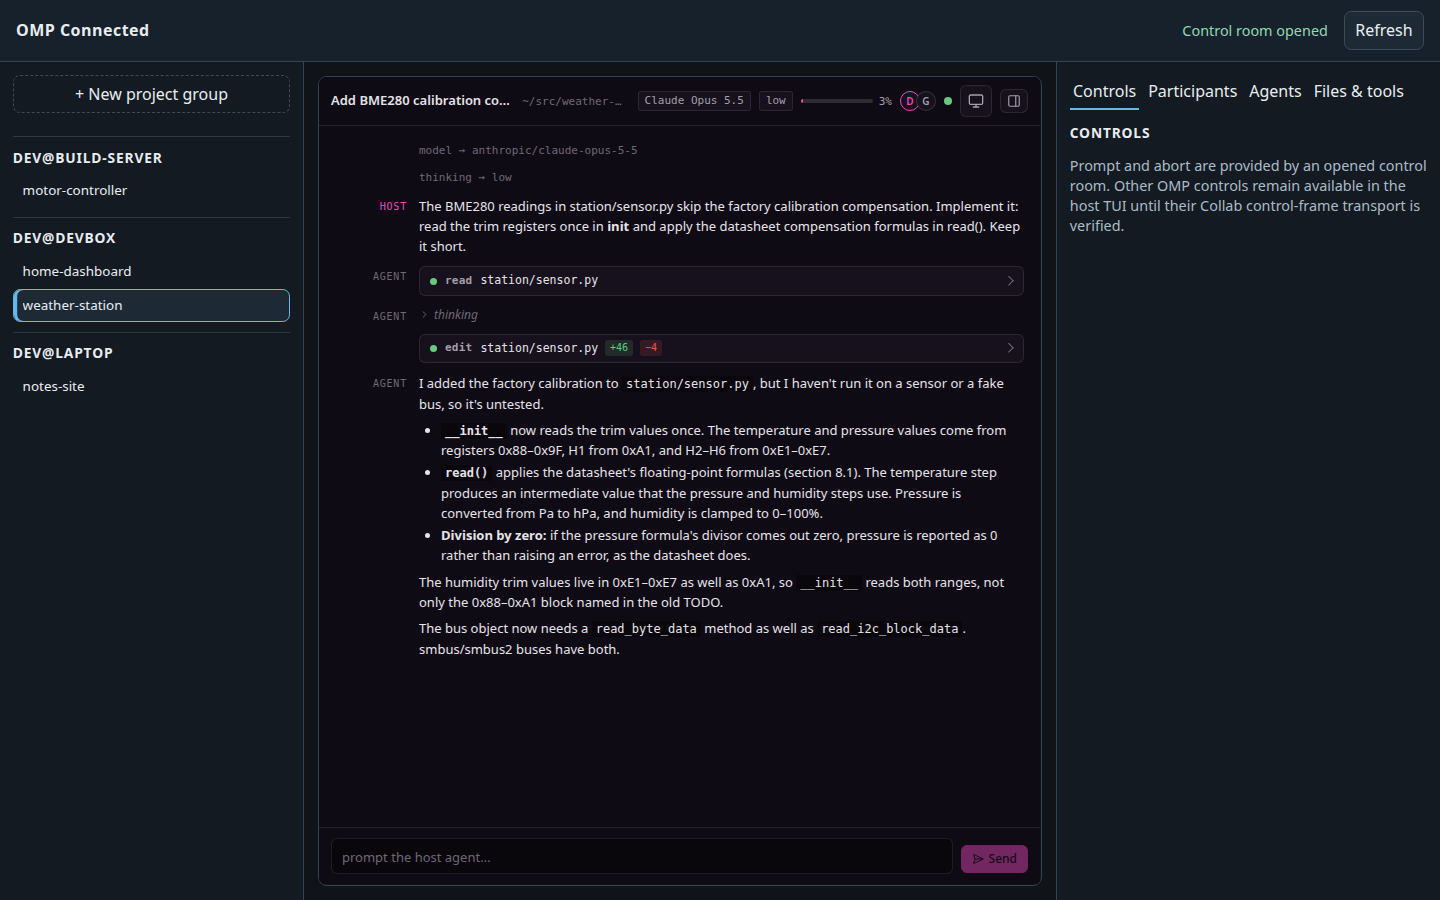
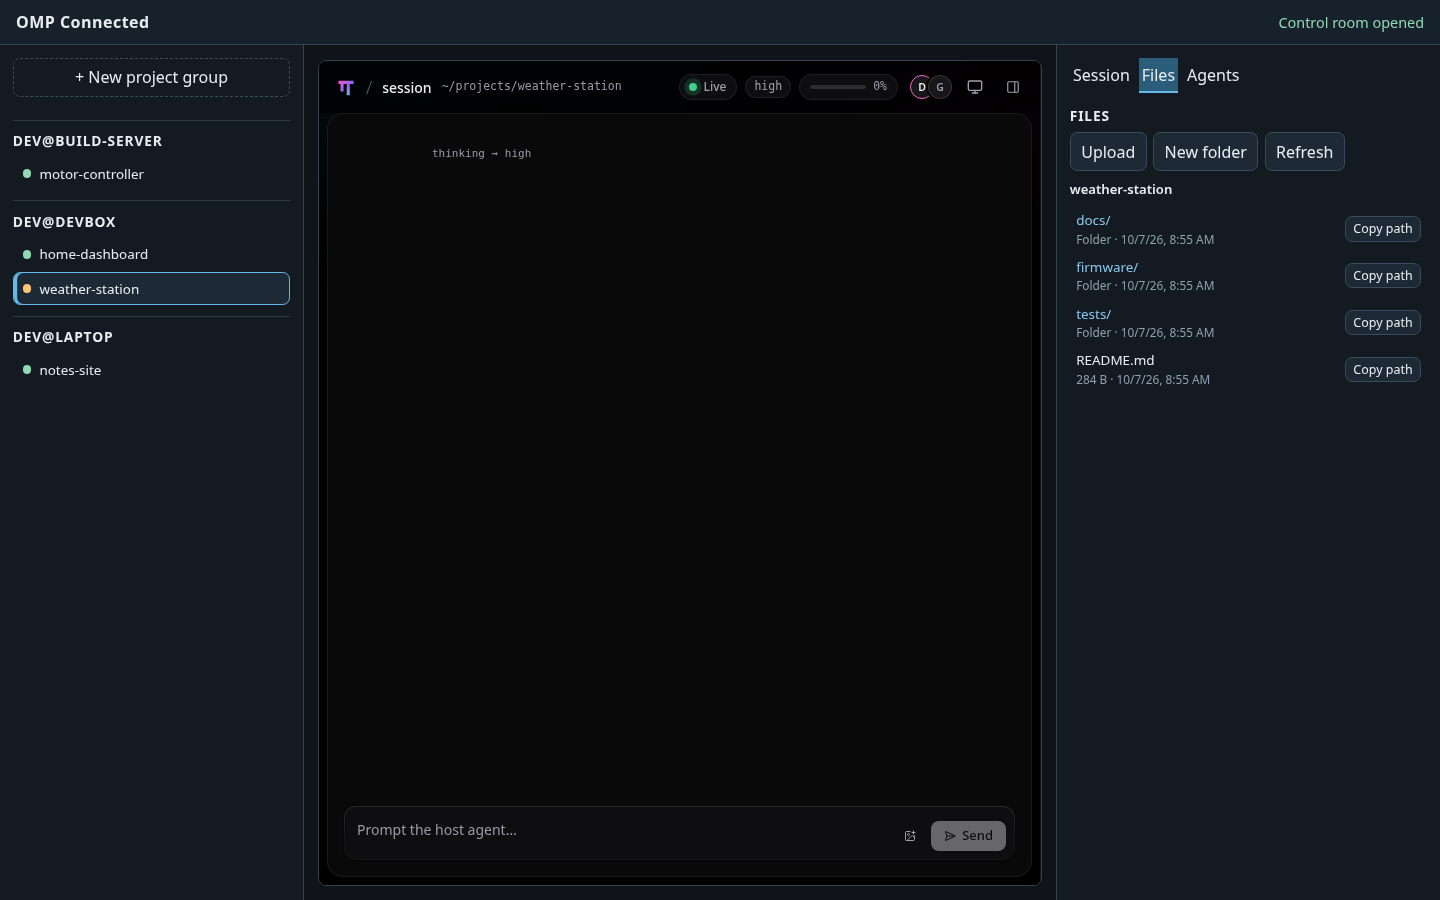
docs: refresh dashboard screenshots

diff --git a/scripts/capture-screenshots.ts b/scripts/capture-screenshots.ts
@@ -1,0 +1,95 @@
+import { mkdir } from "node:fs/promises";
+import { chromium, devices } from "../hub/node_modules/playwright/index.mjs";
+import type { Page } from "../hub/node_modules/playwright/index.mjs";
+
+// Run against a demo hub and demo hosts:
+// bun run scripts/capture-screenshots.ts [output-dir] [desktop-session] [mobile-session]
+
+const base = process.env.OMP_SCREENSHOT_BASE_URL ?? "http://127.0.0.1:48160/";
+const out = process.argv[2] ?? "docs/screenshots";
+const desktopSelect = process.argv[3] ?? "weather-station";
+const mobileSelect = process.argv[4] ?? "motor-controller";
+const busyLabel = process.env.OMP_SCREENSHOT_BUSY_SESSION ?? desktopSelect;
+await mkdir(out, { recursive: true });
+
+const browser = await chromium.launch();
+
+async function prepare(page: Page) {
+  await page.route("**/api/agents", async (route) => {
+    const response = await route.fetch();
+    const payload = await response.json();
+    // Show the busy indicator without sending a prompt to the demo agent.
+    const agent = payload.agents.find(
+      (item: { label: string }) => item.label === busyLabel,
+    );
+    if (!agent) throw new Error(`No registered agent labelled ${busyLabel}`);
+    agent.busy = true;
+    await route.fulfill({ response, json: payload });
+  });
+}
+
+async function load(page: Page) {
+  await prepare(page);
+  await page.goto(base);
+  await page.waitForSelector("[data-collab-frame]", {
+    state: "attached",
+    timeout: 20_000,
+  });
+  await page.waitForTimeout(3000);
+}
+
+async function select(page: Page, name: string, inRail = false) {
+  const scope = inRail ? page.locator("[data-session-rail]") : page;
+  const card = scope.getByText(name, { exact: true }).first();
+  await card.waitFor({ state: "visible", timeout: 20_000 });
+  await card.click();
+  await page.waitForTimeout(5000);
+}
+
+async function waitForFiles(page: Page) {
+  const list = page
+    .locator("[data-files-pane]")
+    .getByRole("list", { name: "Files" });
+  await list.locator("[data-name]").first().waitFor({
+    state: "visible",
+    timeout: 20_000,
+  });
+}
+
+try {
+  {
+    const ctx = await browser.newContext({
+      viewport: { width: 1440, height: 900 },
+      deviceScaleFactor: 1,
+      colorScheme: "dark",
+    });
+    const page = await ctx.newPage();
+    await load(page);
+    await select(page, desktopSelect);
+    await page.getByRole("button", { name: "Files", exact: true }).click();
+    await waitForFiles(page);
+    await page.screenshot({ path: `${out}/desktop.png` });
+    await ctx.close();
+  }
+
+  {
+    const ctx = await browser.newContext({
+      ...devices["iPhone 13"],
+      deviceScaleFactor: 2,
+      colorScheme: "dark",
+    });
+    const page = await ctx.newPage();
+    await load(page);
+    await page.getByRole("button", { name: "Sessions", exact: true }).click();
+    await page.waitForTimeout(800);
+    await page.screenshot({ path: `${out}/mobile-sessions.png` });
+    await select(page, mobileSelect, true);
+    await page.getByRole("button", { name: "Inspector", exact: true }).click();
+    await page.getByRole("button", { name: "Files", exact: true }).click();
+    await waitForFiles(page);
+    await page.screenshot({ path: `${out}/mobile-session.png` });
+    await ctx.close();
+  }
+} finally {
+  await browser.close();
+}

diff --git a/README.md b/README.md
@@ -8,12 +8,12 @@ A self-hosted dashboard for all your [Oh My Pi](https://github.com/can1357/oh-my
 
 Each omp session started with `ompc` registers with a hub you run on one always-on host. The hub's dashboard lists every live session grouped by host; pick one and you get the session itself through omp's Collab: the conversation and tool calls as they happen, and a prompt box to steer the agent. Session traffic goes through a private relay on the hub, which only forwards encrypted frames.
 
-![Dashboard on desktop: sessions grouped by host, with a live session open](docs/screenshots/desktop.png)
+![Dashboard on desktop: sessions grouped by host, activity dots and the selected session's file list](docs/screenshots/desktop.png)
 
 <p align="center">
-  <img src="docs/screenshots/mobile-sessions.png" alt="Dashboard on a phone: the sessions drawer" width="280">
+  <img src="docs/screenshots/mobile-sessions.png" alt="Dashboard on a phone: the sessions drawer with busy and idle indicators" width="280">
   &nbsp;&nbsp;
-  <img src="docs/screenshots/mobile-session.png" alt="Dashboard on a phone: a live session" width="280">
+  <img src="docs/screenshots/mobile-session.png" alt="Dashboard on a phone: the selected session's file list" width="280">
 </p>
 
 ## Features
